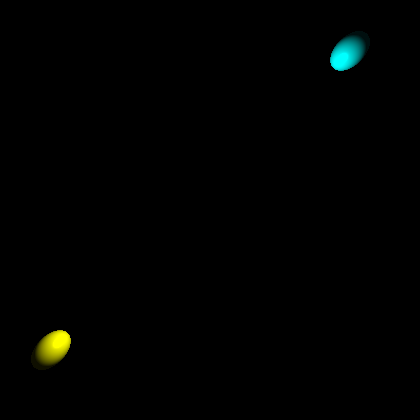
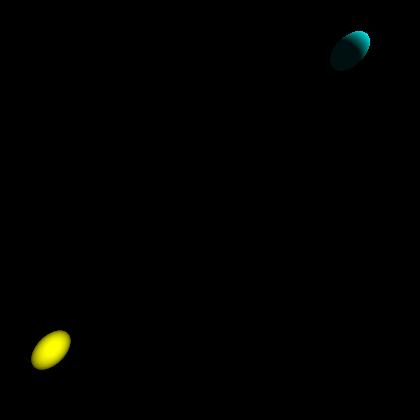
Extracted getColorPoint from geometry

Changed region(s): [[0.7738, 0.0619, 0.8976, 0.1857], [0.0619, 0.7738, 0.1857, 0.8976]]

diff --git a/RayTracer/src/World/World.cpp b/RayTracer/src/World/World.cpp
@@ -2,13 +2,15 @@
 #include "Ray.hpp"
 #include "Geometry.hpp"
 #include "Light.hpp"
+#include "Triangle.hpp"
+#include <fstream>
 
 using namespace std;
 using namespace leon;
 
 World::World()
 {
-	octree.reset(new OctTree(Vector(0, 0, 0), 2048, 16, 4));
+	octree.reset(new OctTree(Vector(0, 0, 0), 2048, 2, 1));
 	spWindow = sptr<sf::RenderWindow>(new sf::RenderWindow(sf::VideoMode(400, 400), "Leon's Ray Tracer: 2016 Edition"));
 	image.create(400, 400, backgroundColor);
 	texture.loadFromImage(image);
@@ -16,6 +18,48 @@ World::World()
 }
 World::~World()
 {
+
+}
+void World::loadModel(double scale, const std::string& fileName, const Vector& position)//load a model into the world
+{
+	std::string dir = content + "models/" + fileName;
+	//Note: Obj files index at 1, not 0
+	vector<Vector> verts;
+	verts.push_back(Vector(-1, -1, -1));
+
+	ifstream inFile(dir);
+
+	string line;
+	bool done = false;
+	while(!done && getline(inFile, line))//std::getline(infile, line))
+	{
+		if(line[0] == 'v')//vertex
+		{
+			line.erase(line.begin(), line.begin() + 1);
+			double x, y, z;
+			istringstream iss(line);
+			if(iss >> x >> y >> z)
+				verts.push_back(position + Vector(x * scale, y * scale, z * scale));
+			else
+				perror("AAA");
+			//cout << "\n" << x << "\t" << y << "\t" << z;
+		}
+		else if(line[0] == 'f')//face
+		{
+			line.erase(line.begin(), line.begin() + 1);
+			int v1, v2, v3;
+			istringstream iss(line);
+			if(iss >> v1 >> v2 >> v3)
+				this->add(new Triangle(verts[v1], verts[v2], verts[v3]));
+			else
+				perror("AAA");
+			//cout << "\n" << v1 << "\t" << v2 << "\t" << v3;
+		}
+		else
+		{
+			perror(line.c_str());
+		}
+	}
 
 }
 void World::add(Geometry* geo)
@@ -206,8 +250,9 @@ void World::getFirstHit(Ray& ray) const
 {
 	std::set<const Geometry*> candidates = octree->getCandidates(ray);
 
+	ray.lastHit = NULL;
+	const Geometry* last = NULL;
 
-	sf::Color lastColor(backgroundColor);
 	double lastTime = -1;
 	for(auto it = candidates.cbegin(); it != candidates.cend(); ++it)
 	{
@@ -215,12 +260,19 @@ void World::getFirstHit(Ray& ray) const
 		{
 			if(lastTime == -1 || lastTime > ray.time)
 			{
-				lastColor = ray.lastColor;
+				last = ray.lastHit;
 				lastTime = ray.time;
 			}
 
 		}
 	}
-	ray.lastColor = lastColor;
+
+	if(last != NULL)
+		ray.lastColor = last->getColorPoint(ray.pos + ray.dir * lastTime, *this);
+	else
+		ray.lastColor = backgroundColor;
+
+
+
 	ray.time = lastTime;
 }

diff --git a/RayTracer/src/World/Light.cpp b/RayTracer/src/World/Light.cpp
@@ -44,7 +44,7 @@ void Light::setColor(const sf::Color& newColor)
 {
 	color = newColor;
 }
-unsigned char Light::getSpecular(const Vector& point, const Vector& normal, const World& world, const Vector& lightRayDir) const
+int Light::getSpecular(const Vector& point, const Vector& normal, const World& world, const Vector& lightRayDir) const
 {
 	Vector toEye = point.to(world.camera.getPosition());
 
@@ -57,11 +57,11 @@ unsigned char Light::getSpecular(const Vector& point, const Vector& normal, cons
 
 	Vector specVector = lightRayDir - (normal * (lightRayDir.dot(normal) * 2));
 
-	return static_cast<unsigned char>(pow(specVector.dot(toEye), e) * 255 * 0.8);
+	return (pow(specVector.dot(toEye), e) * 255 * 0.8);
 }
-unsigned char Light::getDiffuse(const Vector& point, const Vector& normal, const World& world, const Vector& lightRayDir) const
+int Light::getDiffuse(const Vector& point, const Vector& normal, const World& world, const Vector& lightRayDir) const
 {
-	return static_cast<unsigned char>(255.0 * lightRayDir.inv().dot(normal.normal()));
+	return (255.0 * lightRayDir.inv().dot(normal.normal()));
 }
 bool Light::inShadow(const Vector& origin, const Vector& direction, const Vector& target, const World& world) const
 {
@@ -89,15 +89,15 @@ sf::Color Light::getBrightnessHook(const Vector& point, const Vector& normal, co
 	if(!inShadow(start, direction, point, world))
 	{
 		//Diffuse
-		unsigned char d = getDiffuse(point, normal, world, direction);
-		unsigned char s = getSpecular(point, normal, world, direction);
+		int d = getDiffuse(point, normal, world, direction);
+		int s = 0;// getSpecular(point, normal, world, direction);
 
 		if(d > 0)
 			return color*sf::Color(min(s + d, 255), min(s + d, 255), min(s + d, 255));//TODO THIS SHOULD REFERENCE COLOR OF THIS LIGHT
 		else
 			return sf::Color(0, 0, 0);
 	}
-	else
-		return sf::Color(0, 0, 0);
+	//else
+	//	return sf::Color(0, 0, 0);
 }
 

diff --git a/RayTracer/src/main.cpp b/RayTracer/src/main.cpp
@@ -26,13 +26,13 @@ int main()
 	int startZ = 900;
 	int increment = 15;
 
-	//for(int y = 0; y < num; ++y)
-	//	for(int z = 0; z < num; ++z)
-	//	{
-	//		s = new Sphere(Vector(750, startY - y * increment, startZ - z * increment), 5);
-	//		s->color = sf::Color::Green;
-	//		world.add(s);
-	//	}
+	for(int y = 0; y < num; ++y)
+		for(int z = 0; z < num; ++z)
+		{
+			s = new Sphere(Vector(600, startY - y * increment, startZ - z * increment), 5);
+			s->color = sf::Color::Green;
+			world.add(s);
+		}
 
 	s = new Sphere(Vector(512, 512, -512), 50);
 	s->color = sf::Color::Yellow;
@@ -41,6 +41,8 @@ int main()
 	s = new Sphere(Vector(512, -512, 512), 50);
 	s->color = sf::Color::Cyan;
 	world.add(s);
+
+	//world.loadModel(100, "human.obj", Vector(200, 0, 0));
 
 
 	//s = new Triangle(Vector(200, 0, -40), Vector(200, 0, -60), Vector(200, -50, -40));
@@ -51,11 +53,11 @@ int main()
 	//world.geometry.push_back(sptr<Geometry>(at));
 
 
-	//Light* l = new DirectionalLight(sf::Color(255, 255, 255), Vector(1, 1, -1));
-	//world.lights.push_back(sptr<Light>(l));
-
-	Light* l = new PointLight(sf::Color(255, 255, 255), Vector(512, 0, 0));
+	Light* l = new DirectionalLight(sf::Color(255, 255, 255), Vector(1, 1, -1));
 	world.lights.push_back(sptr<Light>(l));
+
+	//Light* l = new PointLight(sf::Color(255, 255, 255), Vector(512, 0, 0));
+	//world.lights.push_back(sptr<Light>(l));
 
 	world.camera.eyedist = 40;
 
@@ -74,7 +76,7 @@ int main()
 	//world.render(400, 400, 100, 100, RenderMode::PerspectivePlane);//img4
 	//world.save(content + "frame_perspective3_noJitter.png");
 
-	world.render(400, 400, 100, 100, RenderMode::PerspectivePlane, SampleMode::PerPixel, 1);//img5
+	world.render(400, 400, 100, 100, RenderMode::PerspectivePlane, SampleMode::MultiJitter, 2);//img5
 	world.save(content + "frame_perspective3_Jitter.png");
 	return 0;
 }

diff --git a/RayTracer/src/World/Geometry.cpp b/RayTracer/src/World/Geometry.cpp
@@ -14,6 +14,10 @@ Geometry::~Geometry()
 {
 
 }
+sf::Color Geometry::getColorPoint(const Vector& point, const World& world) const
+{
+	return color * world.lights[0]->getBrightness(point, getNormal(point), world);
+}
 /// <summary>
 /// does this geometry intersect the specified ray?
 /// </summary>
@@ -24,9 +28,10 @@ Vector Geometry::intersects(Ray& ray, const World& world) const
 {
 	Vector intersection = intersectsHook(ray, world);
 
-	if(!ray.onlyIntersection)
-		if(intersection.init)///TODO fix only checking light 0
-			ray.lastColor = color * world.lights[0]->getBrightness(intersection, getNormal(intersection), world);
+	ray.lastHit = this;
+	//if(!ray.onlyIntersection)
+	//	if(intersection.init)///TODO fix only checking light 0
+	//		ray.lastColor = getColorPoint(intersection, world);
 
 	return intersection;
 }

diff --git a/RayTracer/include/World/Light.hpp b/RayTracer/include/World/Light.hpp
@@ -22,8 +22,8 @@ namespace leon
 		void setColor(const sf::Color& newColor);
 
 	protected:
-		unsigned char getSpecular(const Vector& point, const Vector& normal, const World& world, const Vector& lightRayDir) const;
-		unsigned char getDiffuse(const Vector& point, const Vector& normal, const World& world, const Vector& lightRayDir) const;
+		int getSpecular(const Vector& point, const Vector& normal, const World& world, const Vector& lightRayDir) const;
+		int getDiffuse(const Vector& point, const Vector& normal, const World& world, const Vector& lightRayDir) const;
 
 		virtual bool inShadow(const Vector& origin, const Vector& direction, const Vector& point, const World& world) const = 0;
 

diff --git a/RayTracer/src/World/OctTree.cpp b/RayTracer/src/World/OctTree.cpp
@@ -46,7 +46,7 @@ void OctNode::add(const Geometry* data, const BoundingBox& box)
 }
 void OctNode::getCandidates(const Ray& ray, std::set<const Geometry*>& candidates) const
 {
-	if(!m_children[0])//if we don't have children
+	if(m_children[0].get() == NULL)//if we don't have children
 		for(auto it = m_data.begin(); it != m_data.end(); ++it)
 			candidates.insert(it->second);
 	else

diff --git a/RayTracer/include/World/World.hpp b/RayTracer/include/World/World.hpp
@@ -26,6 +26,7 @@ namespace leon
 		World();
 		virtual ~World();
 
+		void loadModel(double scale, const std::string& fileName, const Vector& position);//load a model into the world
 		void setPixel(int x, int y = 0, sf::Color c = sf::Color::Blue);
 		void save(const std::string& rName);
 

diff --git a/RayTracer/include/World/Geometry.hpp b/RayTracer/include/World/Geometry.hpp
@@ -15,6 +15,8 @@ namespace leon
 		Geometry();
 		virtual ~Geometry();
 
+		sf::Color getColorPoint(const Vector& point, const World& world) const;
+
 		Vector intersects(Ray& ray, const World& world) const;
 		const BoundingBox& getBoundBox() const;
 

diff --git a/RayTracer/include/World/Ray.hpp b/RayTracer/include/World/Ray.hpp
@@ -6,6 +6,7 @@
 namespace leon
 {
 	class World;
+	class Geometry;
 
 	class Ray
 	{
@@ -20,5 +21,7 @@ namespace leon
 		double time;//time of our hit
 		Vector pos;//start position
 		Vector dir;//direction
+
+		const Geometry* lastHit;
 	};
 }

diff --git a/RayTracer/src/World/Ray.cpp b/RayTracer/src/World/Ray.cpp
@@ -9,6 +9,8 @@ Ray::Ray(Vector position, Vector direction)
 	lastColor = sf::Color(128, 128, 128, 255);
 	time = -1;
 	onlyIntersection = false;
+
+	lastHit = NULL;
 }
 Ray::~Ray()
 {
